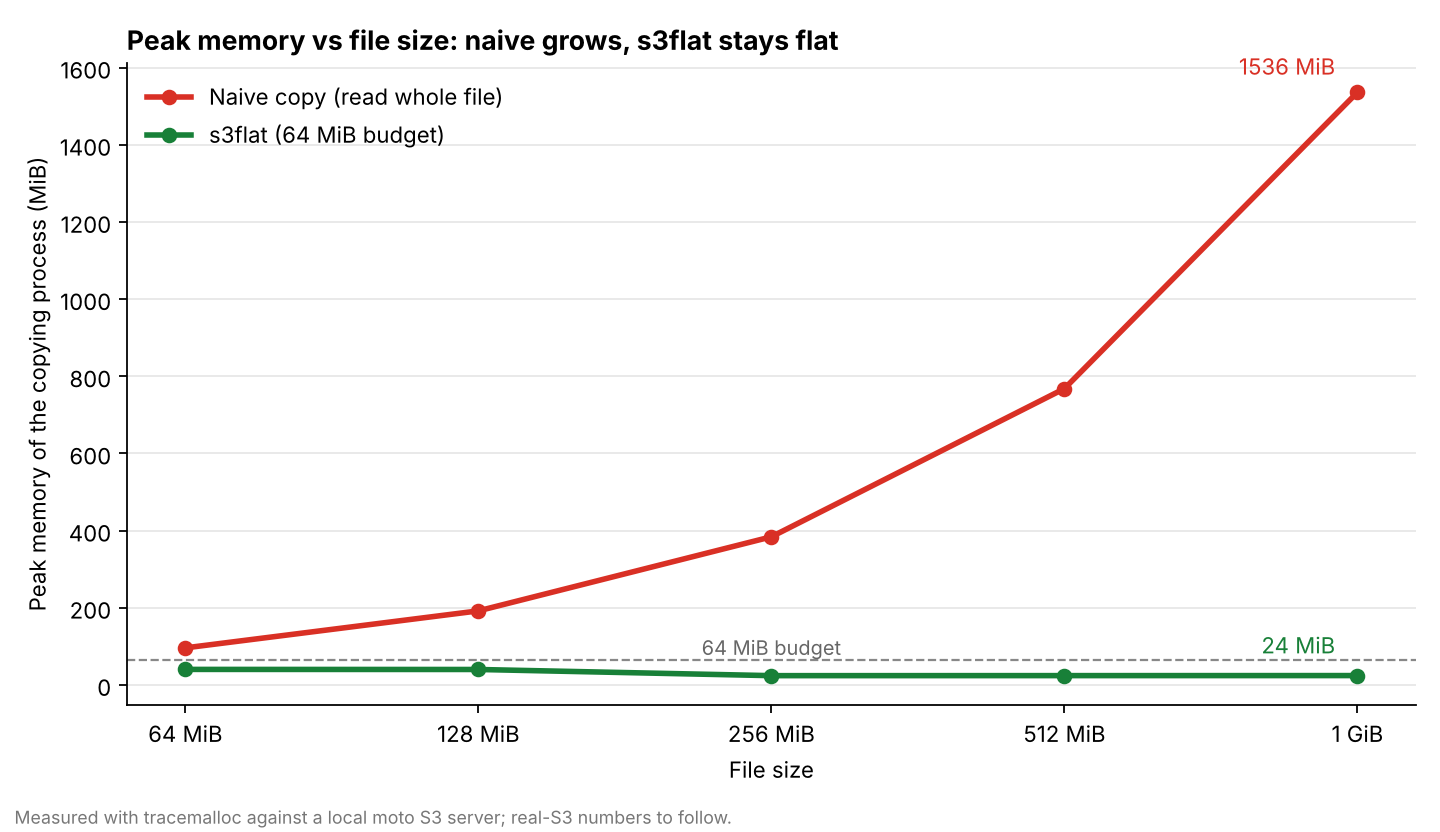
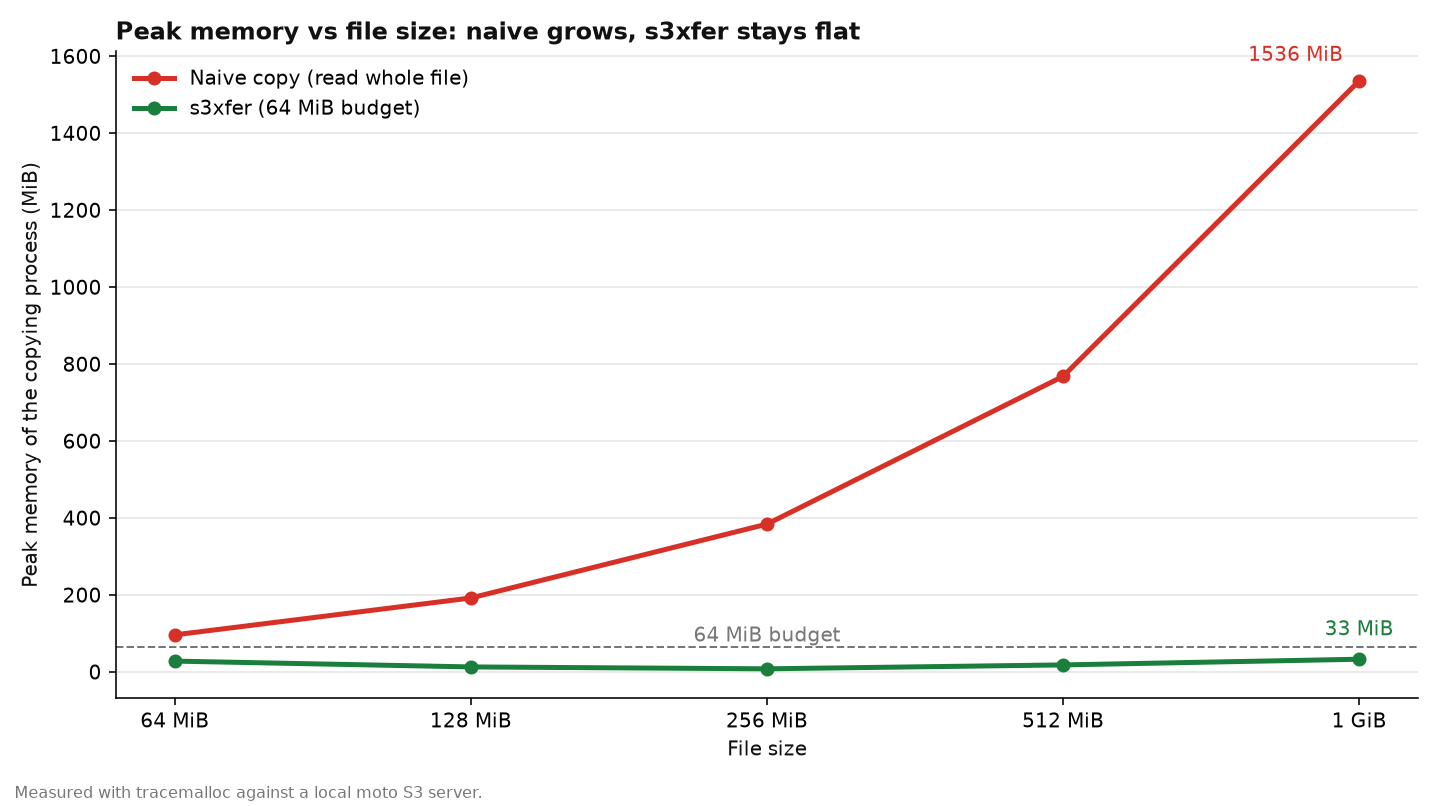
Rename project from s3flat to s3xfer
Package, import name, CLI command, tests and README now use s3xfer.
Re-ran the memory benchmark with the current planner and redrew the chart
(new bench/plot.py; `pip install -e ".[bench]"` for its dependencies).

diff --git a/bench/plot.py b/bench/plot.py
@@ -1,0 +1,60 @@
+"""Draw bench/memory_vs_filesize.png from bench/results.csv.
+
+    python bench/bench_memory.py && python bench/plot.py
+"""
+
+from __future__ import annotations
+
+import csv
+from pathlib import Path
+
+import matplotlib
+
+matplotlib.use("Agg")
+import matplotlib.pyplot as plt  # noqa: E402
+
+HERE = Path(__file__).resolve().parent
+BUDGET_MIB = 64
+NAIVE, OURS, INK, MUTED, GRID = "#d73027", "#1a7f3c", "#111111", "#777777", "#e5e5e5"
+
+
+def label(mib: int) -> str:
+    return f"{mib // 1024} GiB" if mib >= 1024 else f"{mib} MiB"
+
+
+def main() -> None:
+    rows = list(csv.DictReader(open(HERE / "results.csv")))
+    x = list(range(len(rows)))
+    sizes = [int(r["file_mib"]) for r in rows]
+    naive = [float(r["naive_peak_mib"]) for r in rows]
+    ours = [float(r["s3xfer_peak_mib"]) for r in rows]
+
+    fig, ax = plt.subplots(figsize=(10, 5.6), dpi=144)
+    ax.plot(x, naive, color=NAIVE, lw=2.5, marker="o", label="Naive copy (read whole file)")
+    ax.plot(x, ours, color=OURS, lw=2.5, marker="o", label=f"s3xfer ({BUDGET_MIB} MiB budget)")
+    ax.axhline(BUDGET_MIB, color=MUTED, ls="--", lw=1)
+    ax.text(x[len(x) // 2], BUDGET_MIB + 15, f"{BUDGET_MIB} MiB budget", color=MUTED, ha="center", fontsize=10)
+    ax.annotate(f"{naive[-1]:.0f} MiB", (x[-1], naive[-1]), xytext=(-8, 10), textcoords="offset points",
+                ha="right", color=NAIVE, fontsize=10)
+    ax.annotate(f"{ours[-1]:.0f} MiB", (x[-1], ours[-1]), xytext=(0, 12), textcoords="offset points",
+                ha="center", color=OURS, fontsize=10)
+
+    ax.set_xticks(x, [label(s) for s in sizes])
+    ax.set_xlabel("File size", color=INK)
+    ax.set_ylabel("Peak memory of the copying process (MiB)", color=INK)
+    ax.set_title("Peak memory vs file size: naive grows, s3xfer stays flat",
+                 loc="left", fontweight="bold", color=INK)
+    ax.grid(axis="y", color=GRID)
+    ax.set_axisbelow(True)
+    for side in ("top", "right"):
+        ax.spines[side].set_visible(False)
+    ax.legend(frameon=False, loc="upper left")
+    fig.text(0.01, 0.01, "Measured with tracemalloc against a local moto S3 server.",
+             color=MUTED, fontsize=8)
+    fig.tight_layout(rect=(0, 0.03, 1, 1))
+    fig.savefig(HERE / "memory_vs_filesize.png")
+    print(f"wrote {HERE / 'memory_vs_filesize.png'}")
+
+
+if __name__ == "__main__":
+    main()

diff --git a/bench/bench_memory.py b/bench/bench_memory.py
@@ -1,4 +1,4 @@
-"""Peak Python memory: naive copy vs s3flat, across file sizes.
+"""Peak Python memory: naive copy vs s3xfer, across file sizes.
 
 Runs against moto as a separate local server, so it measures only *this process's*
 allocations during the copy. Real-S3 runs belong in the blog too.
@@ -21,7 +21,7 @@ import subprocess
 import time
 
 sys.path.insert(0, str(Path(__file__).resolve().parents[1] / "src"))
-from s3flat import s3_copy  # noqa: E402
+from s3xfer import s3_copy  # noqa: E402
 
 MiB = 1024 * 1024
 SIZES_MIB = [64, 128, 256, 512, 1024]
@@ -75,14 +75,14 @@ def main():
             flat = measure(lambda: s3_copy(c, "src", key, "dst", key + ".flat",
                                            memory_budget=BUDGET, concurrency=8))
             rows.append((mib, naive / MiB, flat / MiB))
-            print(f"{mib:>5} MiB file | naive peak {naive / MiB:8.1f} MiB | s3flat peak {flat / MiB:6.1f} MiB")
+            print(f"{mib:>5} MiB file | naive peak {naive / MiB:8.1f} MiB | s3xfer peak {flat / MiB:6.1f} MiB")
             c.delete_object(Bucket="src", Key=key)
     finally:
         server.terminate()
     out = Path(__file__).with_name("results.csv")
     with out.open("w", newline="") as f:
         w = csv.writer(f)
-        w.writerow(["file_mib", "naive_peak_mib", "s3flat_peak_mib"])
+        w.writerow(["file_mib", "naive_peak_mib", "s3xfer_peak_mib"])
         w.writerows((m, f"{n:.1f}", f"{s:.1f}") for m, n, s in rows)
     print(f"wrote {out}")
 

diff --git a/tests/test_s3xfer.py b/tests/test_s3xfer.py
@@ -6,8 +6,8 @@ import boto3
 import pytest
 from moto import mock_aws
 
-from s3flat import BudgetTooSmall, S3RangeStream, parse_size, plan_transfer, s3_copy
-from s3flat.plan import COPY_FACTOR, MAX_PARTS, MiB, GiB
+from s3xfer import BudgetTooSmall, S3RangeStream, parse_size, plan_transfer, s3_copy
+from s3xfer.plan import COPY_FACTOR, MAX_PARTS, MiB, GiB
 
 BUCKET_A, BUCKET_B = "src-bucket", "dst-bucket"
 
@@ -83,7 +83,7 @@ def test_big_budget_does_not_make_huge_chunks():
 
 
 def test_max_chunk_lets_chunks_fill_the_budget_with_warning():
-    from s3flat import LargeChunkWarning
+    from s3xfer import LargeChunkWarning
     with pytest.warns(LargeChunkWarning, match="128 MiB chunks"):
         p = plan_transfer(10 * GiB, "2GiB", 8, max_chunk="1GiB")
     assert (p.chunk_size, p.concurrency) == (128 * MiB, 8)
@@ -245,9 +245,9 @@ def test_in_flight_chunks_never_exceed_plan(s3):
 
 # ---------------- progress / sync / CLI ----------------------------------------
 
-from s3flat import plan_sync, s3_sync  # noqa: E402
-from s3flat.__main__ import main  # noqa: E402
-from s3flat.progress import ProgressBar  # noqa: E402
+from s3xfer import plan_sync, s3_sync  # noqa: E402
+from s3xfer.__main__ import main  # noqa: E402
+from s3xfer.progress import ProgressBar  # noqa: E402
 
 
 @pytest.mark.parametrize("size", [0, 100, 12 * MiB])

diff --git a/src/s3xfer/__main__.py b/src/s3xfer/__main__.py
@@ -1,7 +1,7 @@
 """CLI.
 
-    s3flat cp   s3://src-bucket/key    s3://dst-bucket/key    --memory 512MiB
-    s3flat sync s3://src-bucket/prefix s3://dst-bucket/prefix --memory 512MiB
+    s3xfer cp   s3://src-bucket/key    s3://dst-bucket/key    --memory 512MiB
+    s3xfer sync s3://src-bucket/prefix s3://dst-bucket/prefix --memory 512MiB
 """
 
 from __future__ import annotations
@@ -101,7 +101,7 @@ def _cmd_sync(args) -> int:
 
 
 def main(argv: list[str] | None = None) -> int:
-    ap = argparse.ArgumentParser(prog="s3flat", description="Constant-memory S3 tools")
+    ap = argparse.ArgumentParser(prog="s3xfer", description="Constant-memory S3 tools")
     sub = ap.add_subparsers(dest="cmd", required=True)
 
     cp = sub.add_parser("cp", help="copy one object S3 -> S3")

diff --git a/src/s3xfer/__init__.py b/src/s3xfer/__init__.py
@@ -1,4 +1,4 @@
-"""s3flat: stream and copy S3 objects of any size in constant memory."""
+"""s3xfer: stream and copy S3 objects of any size in constant memory."""
 
 from .copy import CopyResult, s3_copy
 from .plan import BudgetTooSmall, LargeChunkWarning, TransferPlan, parse_size, plan_transfer

diff --git a/README.md b/README.md
@@ -1,8 +1,8 @@
-# s3flat
+# s3xfer
 
 Stream and copy S3 objects of **any size in constant memory**.
 
-A naive S3 copy reads the whole object into memory, so a 10 GB file needs 10+ GB of RAM and a worker with a fixed memory limit gets OOM-killed. `s3flat` keeps memory flat: you give it a budget, and file size only changes how many chunks it moves, never how much it holds at once.
+A naive S3 copy reads the whole object into memory, so a 10 GB file needs 10+ GB of RAM and a worker with a fixed memory limit gets OOM-killed. `s3xfer` keeps memory flat: you give it a budget, and file size only changes how many chunks it moves, never how much it holds at once.
 
 ![Peak memory vs file size](bench/memory_vs_filesize.png)
 
@@ -41,7 +41,7 @@ Chunks only go above 16 MiB when S3's 10,000-part limit forces it (files over ~1
 
 ```python
 import boto3, zipfile
-from s3flat import S3RangeStream, s3_copy
+from s3xfer import S3RangeStream, s3_copy
 
 s3 = boto3.client("s3")
 
@@ -64,7 +64,7 @@ s3_copy(src_client, "a", "k", "b", "k", dst_client=dst_client, memory_budget="51
 Copy a whole prefix, with progress callbacks:
 
 ```python
-from s3flat import s3_sync
+from s3xfer import s3_sync
 
 res = s3_sync(s3, "src-bucket", "data/2024", "dst-bucket", "backup/2024",
               memory_budget="512MiB",
@@ -77,11 +77,11 @@ res = s3_sync(s3, "src-bucket", "data/2024", "dst-bucket", "backup/2024",
 CLI:
 
 ```bash
-s3flat cp   s3://src-bucket/big.bin   s3://dst-bucket/big.bin   --memory 512MiB --concurrency 8
-s3flat sync s3://src-bucket/data/2024 s3://dst-bucket/backup/2024 --memory 512MiB
+s3xfer cp   s3://src-bucket/big.bin   s3://dst-bucket/big.bin   --memory 512MiB --concurrency 8
+s3xfer sync s3://src-bucket/data/2024 s3://dst-bucket/backup/2024 --memory 512MiB
 
 # Cross-account: read with one AWS profile, write with another
-s3flat cp s3://src-bucket/big.bin s3://dst-bucket/big.bin --src-profile account-a --dst-profile account-b
+s3xfer cp s3://src-bucket/big.bin s3://dst-bucket/big.bin --src-profile account-a --dst-profile account-b
 ```
 
 On a terminal, both commands show a live progress bar (percent, bytes, speed, ETA, current file). When output is redirected they print one line per file instead. Use `-q` to silence it, and `sync --force` to copy everything even if it's already up to date.
@@ -109,7 +109,9 @@ At a fixed budget, memory stays flat as concurrency rises. 8 MiB chunks cost ~8%
 ```bash
 pip install -e ".[dev]"
 pytest                          # 58 tests against moto (fake S3, no AWS account needed)
+pip install -e ".[bench]"
 python bench/bench_memory.py    # memory benchmark → bench/results.csv
+python bench/plot.py            # redraw bench/memory_vs_filesize.png
 ```
 
 ## Roadmap
